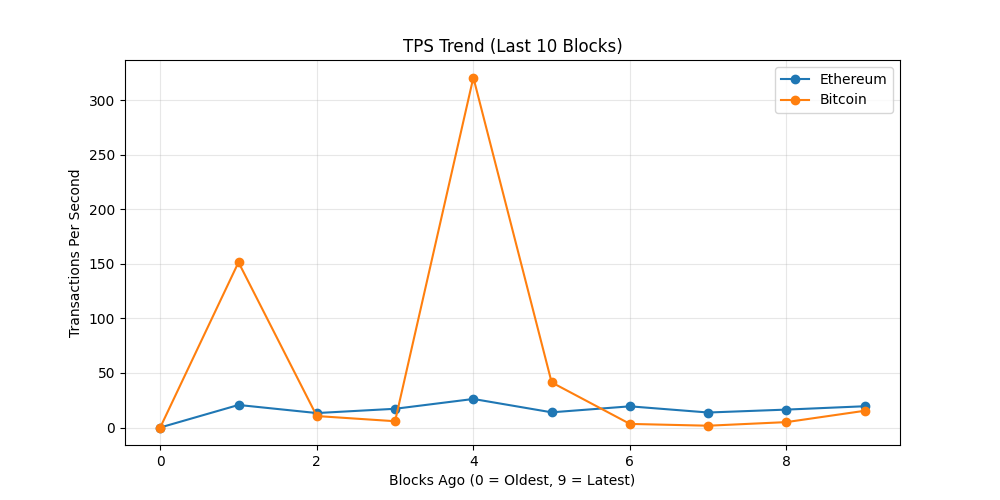
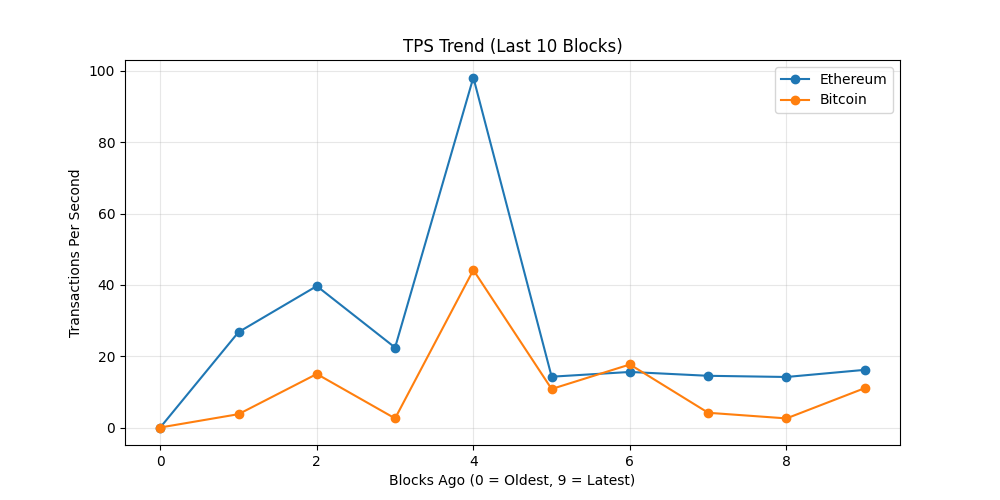
chore: update on-chain dashboard

diff --git a/README.md b/README.md
@@ -19,7 +19,7 @@ The README itself acts as the dashboard and is regenerated automatically on a 6 
 demonstrating a production-style, infrastructure-focused observability workflow rather
 than a traditional UI-driven approach.
 
-_Last updated: 2026-05-28 20:36 UTC_
+_Last updated: 2026-05-29 04:41 UTC_
 
 ## API Usage (GetBlock.io)
 - Calls used: **24**
@@ -27,8 +27,8 @@ _Last updated: 2026-05-28 20:36 UTC_
 ## Network Metrics
 | Chain | Block Height | TX Count | TPS (10 blk avg) | Block Util | Avg Fee |
 |------|-------------|----------|------------------|------------|---------|
-| Ethereum | 25196275 | 234 | 19.5 | 60.24% | 0.2 Gwei |
-| Bitcoin | 951455 | 4421 | 15.35 | 99.8% | N/A |
+| Ethereum | 25198696 | 194 | 16.17 | 61.66% | 0.2 Gwei |
+| Bitcoin | 951514 | 4064 | 11.04 | 99.8% | N/A |
 
 ## Visuals
 ### Transactions Trend
@@ -43,11 +43,11 @@ _Last updated: 2026-05-28 20:36 UTC_
 ## Whale Alerts (latest block)
 - Transaction hashes are truncated for readability.
 - Full hashes are available in `dashboards/metrics.json`
-- Bitcoin | 293.21 BTC | `309e40bacf56…`
-- Bitcoin | 100.03 BTC | `53134dc5f9a3…`
-- Bitcoin | 443.56 BTC | `68adcb169280…`
-- Bitcoin | 235.73 BTC | `cfd0871ea237…`
-- Bitcoin | 235.73 BTC | `c37a2f50535b…`
+- Bitcoin | 453.83 BTC | `3fddd789abb0…`
+- Bitcoin | 113.28 BTC | `8c96401065db…`
+- Bitcoin | 442.5 BTC | `6330122cf998…`
+- Bitcoin | 100.01 BTC | `ae265e0ff3f0…`
+- Bitcoin | 1779.09 BTC | `65b7232aa7a8…`
 
 ## Run locally
 
